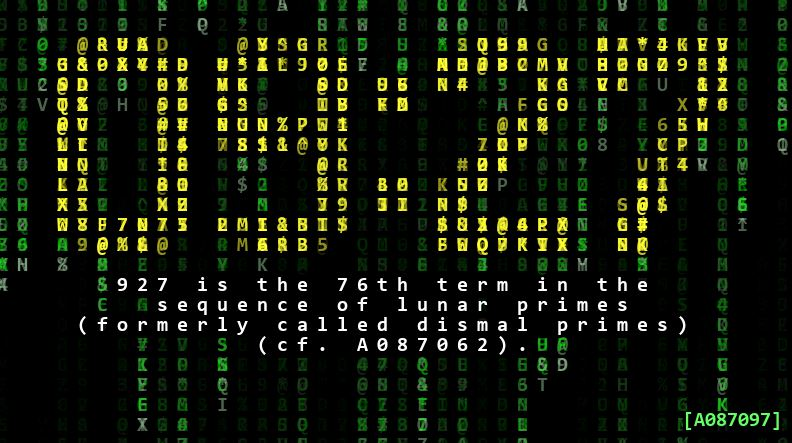
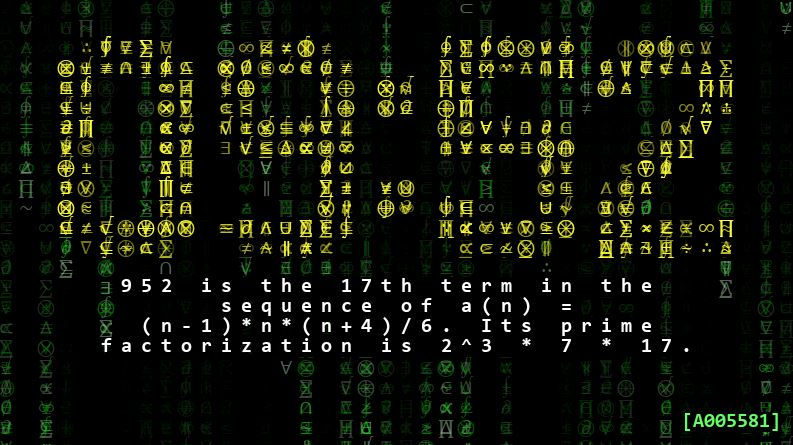
Added math font options

Changed region(s): [[0.0, 0.0, 1.0, 1.0], [0.0, 0.7336, 0.0909, 1.0]]

diff --git a/OEIS_matrix_rain_clock/renderer.py b/OEIS_matrix_rain_clock/renderer.py
@@ -5,7 +5,7 @@ import random
 import pygame
 
 from .config import AppConfig
-from .digit_font import MATRIX_CHARS
+from .digit_font import get_rain_characters
 
 
 class MatrixRainRenderer:
@@ -21,7 +21,9 @@ class MatrixRainRenderer:
         self.screen = pygame.display.set_mode((self.width, self.height))
         pygame.display.set_caption("Matrix Math Clock - Interactive Data")
         self.clock = pygame.time.Clock()
-        self.font = pygame.font.SysFont("consolas", self.font_size, bold=True)
+        self.text_font = self._build_text_font()
+        self.rain_font = self._build_rain_font()
+        self.rain_chars = get_rain_characters(config.digital_rain.character_set)
 
         self.fade_surface = pygame.Surface((self.width, self.height))
         self.fade_surface.fill(self.background_color)
@@ -40,6 +42,58 @@ class MatrixRainRenderer:
     def get_mouse_position(self) -> tuple[int, int]:
         return pygame.mouse.get_pos()
 
+    def _load_font_from_candidates(
+        self, font_names: list[str], bold: bool = False
+    ) -> pygame.font.Font:
+        for font_name in font_names:
+            match = pygame.font.match_font(font_name, bold=bold)
+            if match:
+                return pygame.font.Font(match, self.font_size)
+        return pygame.font.Font(None, self.font_size)
+
+    def _build_text_font(self) -> pygame.font.Font:
+        return self._load_font_from_candidates(
+            ["Consolas", "DejaVu Sans Mono", "Courier New"], bold=True
+        )
+
+    def _build_rain_font(self) -> pygame.font.Font:
+        candidates: list[str] = []
+        if self.config.digital_rain.font_name:
+            candidates.append(self.config.digital_rain.font_name)
+
+        if self.config.digital_rain.character_set == "math":
+            candidates.extend(
+                [
+                    "Noto Sans Math",
+                    "Cambria Math",
+                    "STIX Two Math",
+                    "STIXGeneral",
+                    "DejaVu Sans",
+                    "Segoe UI Symbol",
+                ]
+            )
+        else:
+            candidates.extend(["Consolas", "DejaVu Sans Mono", "Courier New"])
+
+        return self._load_font_from_candidates(candidates)
+
+    def _blit_grid_character(
+        self,
+        font: pygame.font.Font,
+        char: str,
+        color: tuple[int, int, int],
+        x: int,
+        y: int,
+        alpha: int | None = None,
+    ) -> None:
+        char_surface = font.render(char, True, color)
+        if alpha is not None:
+            char_surface.set_alpha(alpha)
+        char_rect = char_surface.get_rect(
+            center=(x + (self.font_size // 2), y + (self.font_size // 2))
+        )
+        self.screen.blit(char_surface, char_rect)
+
     def clear_frame(self) -> None:
         self.screen.blit(self.fade_surface, (0, 0))
 
@@ -53,20 +107,26 @@ class MatrixRainRenderer:
             x = column_index * self.font_size
             y = drop_row_int * self.font_size
 
-            head_char = random.choice(MATRIX_CHARS)
-            head_surface = self.font.render(
-                head_char, True, self.config.digital_rain.head_color
+            head_char = random.choice(self.rain_chars)
+            self._blit_grid_character(
+                self.rain_font,
+                head_char,
+                self.config.digital_rain.head_color,
+                x,
+                y,
+                alpha=self.config.digital_rain.alpha,
             )
-            head_surface.set_alpha(self.config.digital_rain.alpha)
-            self.screen.blit(head_surface, (x, y))
 
             if drop_row_int > 0:
-                tail_char = random.choice(MATRIX_CHARS)
-                tail_surface = self.font.render(
-                    tail_char, True, self.config.digital_rain.tail_color
+                tail_char = random.choice(self.rain_chars)
+                self._blit_grid_character(
+                    self.rain_font,
+                    tail_char,
+                    self.config.digital_rain.tail_color,
+                    x,
+                    y - self.font_size,
+                    alpha=self.config.digital_rain.alpha,
                 )
-                tail_surface.set_alpha(self.config.digital_rain.alpha)
-                self.screen.blit(tail_surface, (x, y - self.font_size))
 
             current_drop_y = self.drops[column_index]
             previous_drop_y = current_drop_y - self.config.animation.fall_speed
@@ -79,7 +139,7 @@ class MatrixRainRenderer:
                         active_stack.pop(0)
                     active_stack.append(
                         {
-                            "char": random.choice(MATRIX_CHARS),
+                            "char": random.choice(self.rain_chars),
                             "alpha": float(time_pixel_targets[target]),
                         }
                     )
@@ -109,11 +169,14 @@ class MatrixRainRenderer:
             self.screen.blit(mask_surface, (x, y))
 
             for data in stack:
-                char_surface = self.font.render(
-                    str(data["char"]), True, self.config.time_digits.color
+                self._blit_grid_character(
+                    self.rain_font,
+                    str(data["char"]),
+                    self.config.time_digits.color,
+                    x,
+                    y,
+                    alpha=int(float(data["alpha"])),
                 )
-                char_surface.set_alpha(int(float(data["alpha"])))
-                self.screen.blit(char_surface, (x, y))
                 data["alpha"] = float(data["alpha"]) - self.config.time_digits.fade_alpha
 
             active_time_pixels[(col, row)] = [
@@ -154,9 +217,12 @@ class MatrixRainRenderer:
                 x = col * self.font_size
                 y = row * self.font_size
                 self.screen.blit(self.fact_mask_surface, (x, y))
-                self.screen.blit(
-                    self.font.render(char, True, self.config.fact_characters.color),
-                    (x, y),
+                self._blit_grid_character(
+                    self.text_font,
+                    char,
+                    self.config.fact_characters.color,
+                    x,
+                    y,
                 )
 
     def draw_cursor(
@@ -186,14 +252,14 @@ class MatrixRainRenderer:
             return None
 
         link_str = f"[{seq_id}]"
-        link_surf = self.font.render(
+        link_surf = self.text_font.render(
             link_str, True, self.config.fact_characters.link_color
         )
         link_rect = link_surf.get_rect(bottomright=(self.width - 15, self.height - 15))
 
         is_hovering = link_rect.collidepoint(mouse_pos)
         if is_hovering:
-            link_surf = self.font.render(
+            link_surf = self.text_font.render(
                 link_str, True, self.config.fact_characters.color
             )
 

diff --git a/OEIS_matrix_rain_clock/config.py b/OEIS_matrix_rain_clock/config.py
@@ -21,6 +21,8 @@ class DigitalRainConfig:
     tail_color: tuple[int, int, int]
     alpha: int
     screen_fade_alpha: int
+    character_set: str
+    font_name: str | None
 
 
 @dataclass(frozen=True)
@@ -95,6 +97,14 @@ def load_config(filepath: str = "clock_settings.yaml") -> AppConfig:
             alpha=int(config_data["digital_rain"].get("alpha", 255)),
             screen_fade_alpha=int(
                 config_data["digital_rain"].get("screen_fade_alpha", 15)
+            ),
+            character_set=str(
+                config_data["digital_rain"].get("character_set", "classic")
+            ).strip().lower(),
+            font_name=(
+                str(config_data["digital_rain"]["font_name"]).strip()
+                if config_data["digital_rain"].get("font_name")
+                else None
             ),
         ),
         time_digits=TimeDigitsConfig(

diff --git a/OEIS_matrix_rain_clock/digit_font.py b/OEIS_matrix_rain_clock/digit_font.py
@@ -1,4 +1,20 @@
-MATRIX_CHARS = "ABCDEFGHIJKLMNOPQRSTUVWXYZ0123456789@#$%^&*"
+CLASSIC_RAIN_CHARS = "ABCDEFGHIJKLMNOPQRSTUVWXYZ0123456789@#$%^&*"
+
+MATH_RAIN_CHARS = (
+    "∑∏∫√∞≈≠≤≥±×÷"
+    "∈∩∪⊂⊆∂∇∀∃"
+    "∝∴∵⊕⊗∥∠∅"
+    "∧∨∼≡∮∆"
+)
+
+RAIN_CHARACTER_SETS = {
+    "classic": CLASSIC_RAIN_CHARS,
+    "math": MATH_RAIN_CHARS,
+}
+
+
+def get_rain_characters(character_set: str) -> str:
+    return RAIN_CHARACTER_SETS.get(character_set.lower(), CLASSIC_RAIN_CHARS)
 
 ASCII_DIGITS = {
     "0": [

diff --git a/README.md b/README.md
@@ -65,6 +65,7 @@ python run_oeis_matrix_rain_clock.py
 ## Features
 
 - Matrix-style digital rain rendered in Pygame
+- Selectable rain character sets: classic or curated math symbols
 - Large ASCII-art time display
 - OEIS-backed facts for the current time interpreted as a number
 - Heuristic conversion of OEIS sequence names into readable English
@@ -94,11 +95,27 @@ Both versions read settings from `clock_settings.yaml`.
 You can tune:
 
 - display size and font size
+- digital rain character set and preferred rain font
 - rain colors and fade behaviour
 - time digit appearance
 - fact reveal speed
 - OEIS scoring behaviour
 - prime factorization frequency
+
+### Digital rain character sets
+
+The refactored module version supports two rain character sets through `clock_settings.yaml`:
+
+```yaml
+digital_rain:
+  character_set: classic   # classic | math
+  font_name: ""            # optional preferred rain font
+```
+
+- `classic` uses the original letters, digits, and symbols
+- `math` uses a curated set of mathematical operators and symbols
+
+When `character_set: math` is selected, the renderer will try to use a math-capable font automatically. If `font_name` is blank, it attempts safe fallbacks such as `Noto Sans Math`, `Cambria Math`, `STIX Two Math`, `DejaVu Sans`, and other available system fonts before falling back to Pygame's default font.
 
 ## How It Works
 
